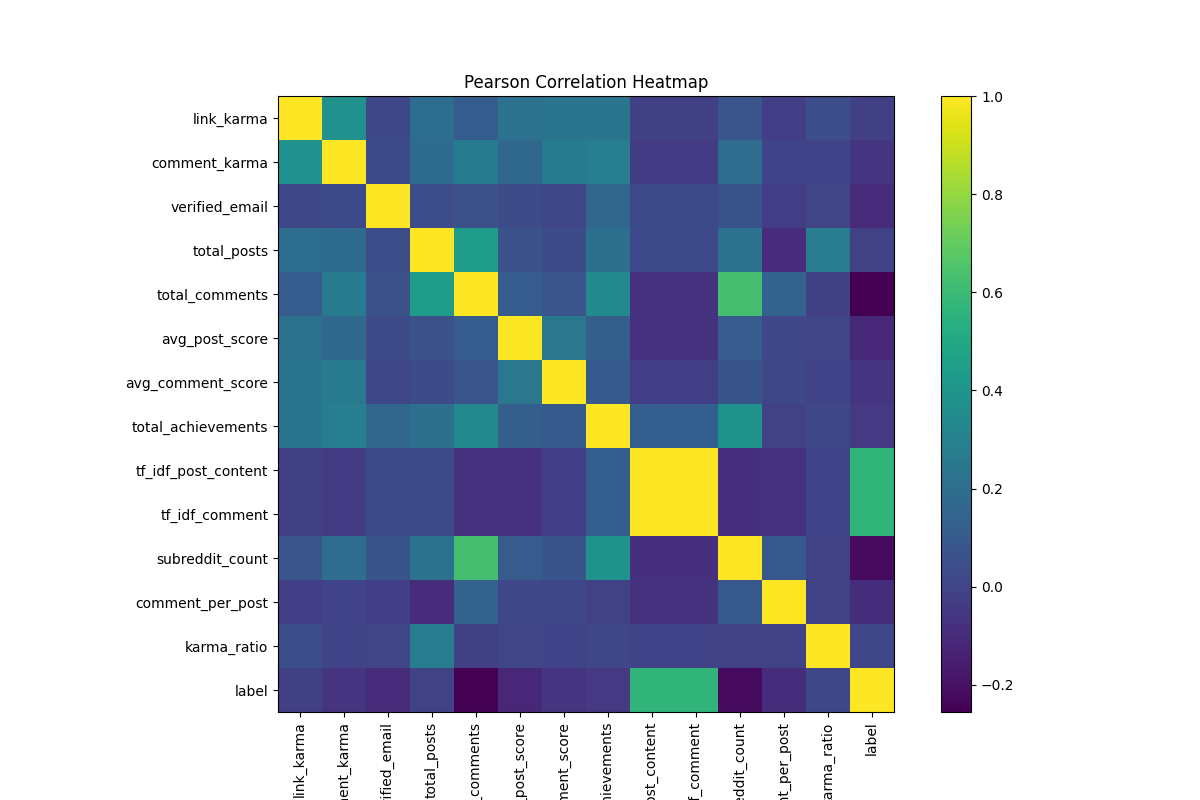
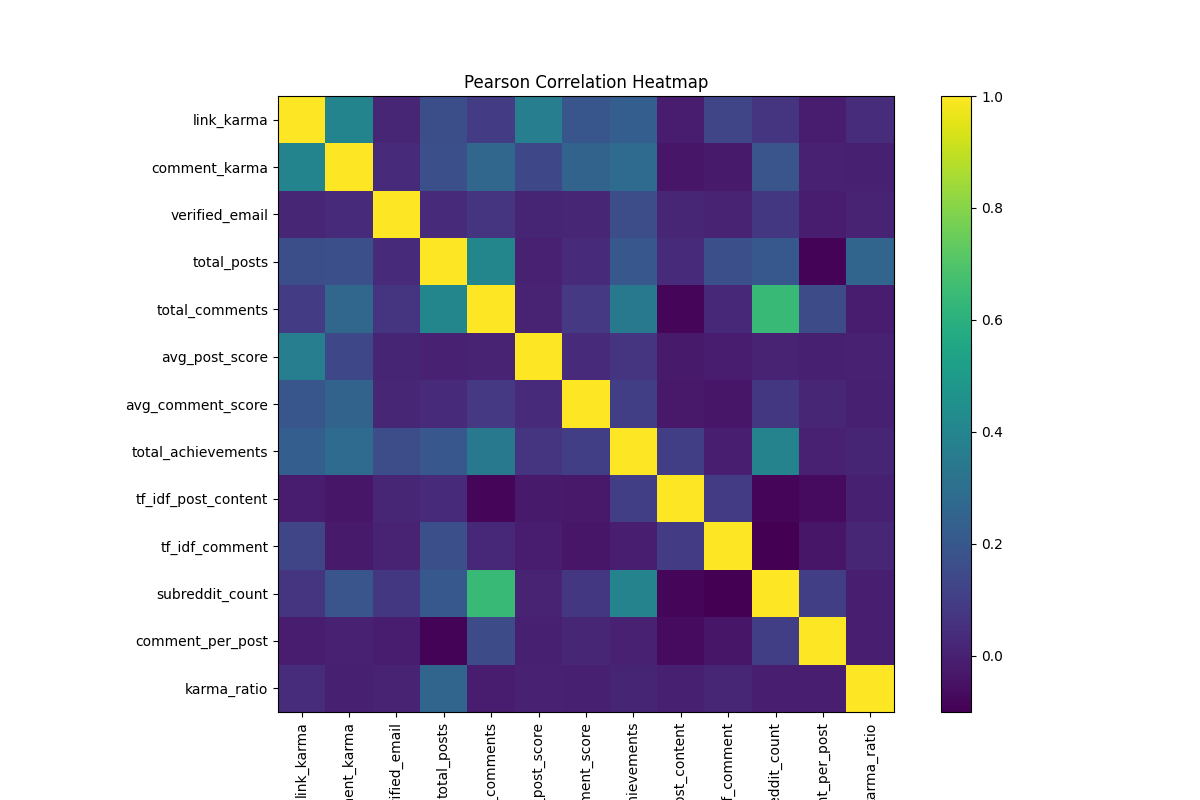
fix something about model and main

diff --git a/model/main.py b/model/main.py
@@ -108,7 +108,7 @@ class RedditCrawler:
                                     auth=self.__auth, data=self.__data, headers={"User-Agent": USER_AGENT})
                 if res.status_code != 200:
                     self.print_error(f"{res.status_code} {res.text}")
-                    time.sleep(60)
+                    time.sleep(10)
                     continue
                 self.__token = res.json()["access_token"]
                 self.__headers = {"Authorization": f"bearer {self.__token}",
@@ -142,7 +142,7 @@ class RedditCrawler:
                         self.__time_error = 0
                         self.print_error(f" Error!")
                         return all_items
-                time.sleep(60)
+                time.sleep(10)
                 continue
             data = r.json()["data"]
             # pretty_json = json.dumps(r.json(), indent=4, sort_keys=True)
@@ -221,7 +221,7 @@ class RedditCrawler:
                         self.__time_error = 0
                         self.print_error(f" Error!")
                         return
-                time.sleep(60)
+                time.sleep(10)
                 continue
             else:
                 break
@@ -255,7 +255,7 @@ class RedditCrawler:
                         self.__time_error = 0
                         self.print_error(f"Error!")
                         return
-                time.sleep(60)
+                time.sleep(10)
                 continue
             else:
                 break
@@ -299,7 +299,7 @@ class RedditCrawler:
                 self.print_error(f"{r.status_code} {r.text}")
                 if r.status_code == 401:  # token overdue
                     self._get_token()
-                time.sleep(60)
+                time.sleep(10)
                 continue
 
             data = r.json()["data"]
@@ -332,14 +332,14 @@ class RedditCrawler:
                         "verified_email": user_data["verified_email"],
                         "total_posts" : len(user_posts),
                         "total_comments" : len(user_comments),
-                        "avg_post_score" : 0 if len(user_posts) == 0 else user_posts["score"].mean(),
+                       # "avg_post_score" : 0 if len(user_posts) == 0 else user_posts["score"].mean(),
                         "avg_comment_score" : 0 if len(user_comments) == 0 else user_comments["score"].mean(),
                         "total_achievements" : len(user_achiverments),
                         "tf_idf_post_content" : 0 if len(user_posts) == 0 else self.cal_content_duplicate_ratio(user_posts),
-                        "tf_idf_comment" : 0 if len(user_comments) == 0 else self.cal_content_duplicate_ratio(),
+                        "tf_idf_comment" : 0 if len(user_comments) == 0 else self.cal_content_duplicate_ratio(user_comments),
                         "subreddit_count" : self.subreddit_count(user_posts, user_comments),
                         "comment_per_post" : 0 if len(user_posts) == 0 else len(user_comments)/len(user_posts),
-                        "karma_ratio" : 0 if user_data["comment_karma"] == 0 else user_data["link_karma"]/user_data["comment_karma"],
+                       # "karma_ratio" : 0 if user_data["comment_karma"] == 0 else user_data["link_karma"]/user_data["comment_karma"],
                     }])
                     print(user_feature)
                     spam_prob = self.__pipeline.predict_proba(user_feature)[:,1]

diff --git a/model/SVM.py b/model/SVM.py
@@ -10,13 +10,15 @@ import joblib
 data = pd.read_csv("data_prepare/data_training.csv")
 
 # Remove unneeded columns
-data = data.drop(columns=["username"])
+data = data.drop(columns=["username", "avg_post_score", "karma_ratio"])
 
-Y = data
+X = data.drop(columns=["label"])
+
+Y = data["label"]
 
 # Train-test split
 X_train, X_test, y_train, y_test = train_test_split(
-    data, y, test_size=0.2, random_state=42, stratify=y
+    X, Y, test_size=0.2, random_state=42, stratify=Y
 )
 
 smote = SMOTE(random_state=42)
